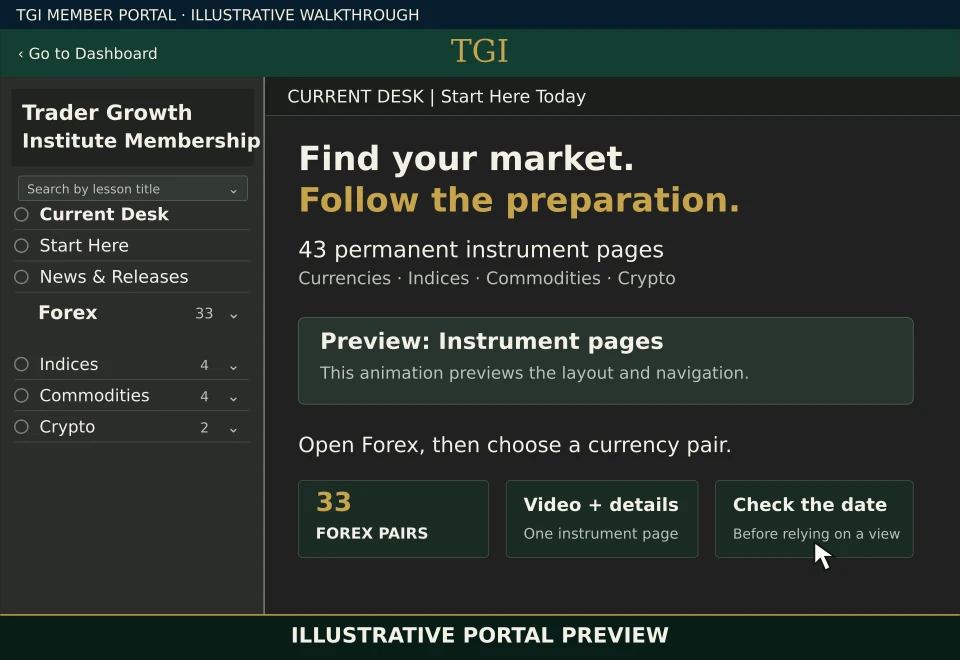
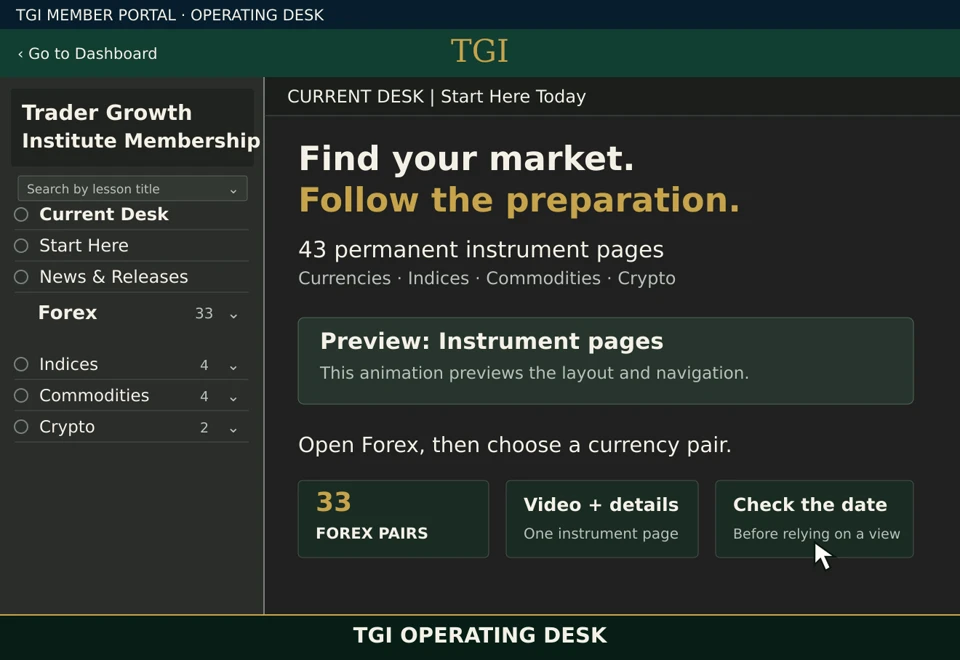
Add approved position tools to the Operating Desk GIF

diff --git a/desk/index.html b/desk/index.html
@@ -1,7 +1,7 @@
 <!doctype html>
-<html lang="en"><head><meta charset="utf-8"/><meta name="viewport" content="width=device-width, initial-scale=1"/><meta name="description" content="Join the TGI Operating Desk for weekly news, Daily Zones, structural levels, scenarios and market outlooks across 43 instruments. $99/month. Cancel anytime."/><meta name="theme-color" content="#080a0a"/><link rel="canonical" href="https://www.tradergrowth.com/desk/"/><meta property="og:title" content="TGI Operating Desk | Prepare with structure"/><meta property="og:description" content="Weekly news. Daily Zones. Structural levels. Market outlooks across 43 instruments. $99/month. Cancel anytime."/><meta property="og:image" content="https://www.tradergrowth.com/assets/tgi-forex-portal-walkthrough-poster.webp"/><title>TGI Operating Desk Membership | Trader Growth Institute</title><link rel="stylesheet" href="../styles.css"/><link rel="stylesheet" href="desk.css?v=20261011-newsletter"/><script defer src="../app.js"></script><script defer src="desk-gif.js?v=20261011-newsletter"></script><script defer src="desk-motion.js?v=20261011"></script></head><body class="desk-page"><a class="skip-link" href="#membership-main">Skip to membership</a><header class="site-header" data-header><a class="brand" href="/" aria-label="Trader Growth Institute home"><span class="brand-mark" aria-hidden="true">TGI</span><span class="brand-name">Trader Growth Institute</span></a><button class="nav-toggle" type="button" aria-expanded="false" aria-controls="site-nav"><span></span><span></span><span class="sr-only">Open navigation</span></button><nav class="site-nav" id="site-nav" aria-label="Primary navigation"><a href="/newsletter/">Intelligence</a><a href="/desk/" aria-current="page">Operating Desk</a><a href="/dzc/">Book</a><a href="/cot/">COT Dashboard</a></nav><a class="text-link header-cta" href="https://tradergrowthfx.thinkific.com/users/sign_in">Member sign in →</a></header>
+<html lang="en"><head><meta charset="utf-8"/><meta name="viewport" content="width=device-width, initial-scale=1"/><meta name="description" content="Join the TGI Operating Desk for weekly news, Daily Zones, structural levels, scenarios and market outlooks across 43 instruments. $99/month. Cancel anytime."/><meta name="theme-color" content="#080a0a"/><link rel="canonical" href="https://www.tradergrowth.com/desk/"/><meta property="og:title" content="TGI Operating Desk | Prepare with structure"/><meta property="og:description" content="Weekly news. Daily Zones. Structural levels. Market outlooks across 43 instruments. $99/month. Cancel anytime."/><meta property="og:image" content="https://www.tradergrowth.com/assets/tgi-forex-portal-walkthrough-poster.webp?v=20261011-positions"/><title>TGI Operating Desk Membership | Trader Growth Institute</title><link rel="stylesheet" href="../styles.css"/><link rel="stylesheet" href="desk.css?v=20261011-positions"/><script defer src="../app.js"></script><script defer src="desk-gif.js?v=20261011-positions"></script><script defer src="desk-motion.js?v=20261011"></script></head><body class="desk-page"><a class="skip-link" href="#membership-main">Skip to membership</a><header class="site-header" data-header><a class="brand" href="/" aria-label="Trader Growth Institute home"><span class="brand-mark" aria-hidden="true">TGI</span><span class="brand-name">Trader Growth Institute</span></a><button class="nav-toggle" type="button" aria-expanded="false" aria-controls="site-nav"><span></span><span></span><span class="sr-only">Open navigation</span></button><nav class="site-nav" id="site-nav" aria-label="Primary navigation"><a href="/newsletter/">Intelligence</a><a href="/desk/" aria-current="page">Operating Desk</a><a href="/dzc/">Book</a><a href="/cot/">COT Dashboard</a></nav><a class="text-link header-cta" href="https://tradergrowthfx.thinkific.com/users/sign_in">Member sign in →</a></header>
 <main id="membership-main"><section class="desk-hero"><div class="desk-hero-copy"><p class="eyebrow">TGI Operating Desk · Member access</p><h1>Follow the preparation.<br/><em>Build your own conviction.</em></h1><p class="desk-lead">Weekly news announcements, Daily Zones, structural levels, conditional scenarios, and market outlooks across 43 instruments—organized in one member portal.</p><div class="desk-offer"><b>$99</b><span>/ month<br/>One member desk. Ongoing access.</span></div><a class="button button-gold desk-join" href="https://tradergrowthfx.thinkific.com/enroll/3775153?price_id=4732368">Join the TGI Operating Desk <span>— $99/month</span></a><p class="desk-micro">Recurring monthly membership. Cancel anytime.<br/>Secure enrollment and member access through Thinkific.</p><a class="text-link" href="#inside">See what’s inside <span aria-hidden="true">↓</span></a></div><figure class="desk-preview">
-<div class="desk-gif-frame"><img id="desk-gif" data-desk-gif data-desk-gif-src="../assets/tgi-forex-portal-walkthrough.gif?v=20261011-newsletter" src="../assets/tgi-forex-portal-walkthrough-poster.webp?v=20261011-newsletter" alt="Illustrative TGI Forex portal walkthrough with EURUSD, USDJPY and GBPAUD video previews and details. Sample content; no live prices or current analysis." width="960" height="660" decoding="async"/><button class="desk-gif-toggle" data-desk-gif-control type="button" aria-label="Play animation" aria-controls="desk-gif" hidden></button></div>
+<div class="desk-gif-frame"><img id="desk-gif" data-desk-gif data-desk-gif-src="../assets/tgi-forex-portal-walkthrough.gif?v=20261011-positions" src="../assets/tgi-forex-portal-walkthrough-poster.webp?v=20261011-positions" alt="TGI Operating Desk portal walkthrough: EURUSD Short, USDJPY Long and GBPAUD Short position previews with entry, stop and target areas. No live prices or current market analysis." width="960" height="660" decoding="async"/><button class="desk-gif-toggle" data-desk-gif-control type="button" aria-label="Play animation" aria-controls="desk-gif" hidden></button></div>
 <p class="sr-only" data-desk-gif-status role="status" aria-live="polite"></p>
 </figure></section>
 <div class="desk-strip"><span>Weekly News</span><span>Daily Zones</span><span>Structural Levels</span><span>Market Outlooks</span></div>

diff --git a/tests/site.spec.js b/tests/site.spec.js
@@ -280,17 +280,17 @@ test("Operating Desk offer has visible checkout, accurate scope and clear cancel
     await expect(page.locator(".desk-lead")).toContainText("across 43 instruments");
     const gif = page.locator('[data-desk-gif]');
     await gif.scrollIntoViewIfNeeded();
-    await expect(gif).toHaveAttribute("src", "../assets/tgi-forex-portal-walkthrough.gif?v=20261011-newsletter");
+    await expect(gif).toHaveAttribute("src", "../assets/tgi-forex-portal-walkthrough.gif?v=20261011-positions");
     await expect.poll(() => gif.evaluate(image => image.complete && image.naturalWidth === 960 && image.naturalHeight === 660), { timeout: 15000 }).toBe(true);
     await expect(page.locator(".desk-preview")).toHaveCSS("border-top-width", "0px");
     await page.getByRole("button", { name: "Stop animation", exact: true }).click();
-    await expect(gif).toHaveAttribute("src", "../assets/tgi-forex-portal-walkthrough-poster.webp?v=20261011-newsletter");
+    await expect(gif).toHaveAttribute("src", "../assets/tgi-forex-portal-walkthrough-poster.webp?v=20261011-positions");
     await page.getByRole("button", { name: "Play animation", exact: true }).click();
-    await expect(gif).toHaveAttribute("src", "../assets/tgi-forex-portal-walkthrough.gif?v=20261011-newsletter");
+    await expect(gif).toHaveAttribute("src", "../assets/tgi-forex-portal-walkthrough.gif?v=20261011-positions");
     const animationControl = page.getByRole("button", { name: "Stop animation", exact: true });
     await animationControl.focus();
     await animationControl.press("Enter");
-    await expect(gif).toHaveAttribute("src", "../assets/tgi-forex-portal-walkthrough-poster.webp?v=20261011-newsletter");
+    await expect(gif).toHaveAttribute("src", "../assets/tgi-forex-portal-walkthrough-poster.webp?v=20261011-positions");
     await expect(page.locator(".desk-preview a, .desk-preview details, .desk-preview figcaption, .desk-preview video")).toHaveCount(0);
     await page.locator("[data-desk-gif-control]").evaluate(control => control.blur());
     await page.locator(".desk-preview").screenshot({ path: testInfo.outputPath(`desk-gif-${viewport.width}.png`) });
@@ -334,7 +334,7 @@ test("Operating Desk stays readable with reduced motion or JavaScript disabled",
       await expect(heading).toHaveCSS("transform", "none");
       await expect(page.locator(".desk-hero .desk-join")).toBeVisible();
       await expect(page.locator(".desk-offer")).toContainText("$99");
-      await expect(page.locator("[data-desk-gif]")).toHaveAttribute("src", "../assets/tgi-forex-portal-walkthrough-poster.webp?v=20261011-newsletter");
+      await expect(page.locator("[data-desk-gif]")).toHaveAttribute("src", "../assets/tgi-forex-portal-walkthrough-poster.webp?v=20261011-positions");
       const card = page.locator(".desk-grid article").first();
       await card.scrollIntoViewIfNeeded();
       await expect(card).toHaveCSS("opacity", "1");

diff --git a/assets/desk-tour-README.md b/assets/desk-tour-README.md
@@ -1,6 +1,8 @@
 # TGI Operating Desk landing page animation
 
-The landing page uses `tgi-forex-portal-walkthrough.gif`, the exact 18-second animation included in the October 11 newsletter draft: 960 × 660, 108 frames, infinite loop. Its matching still is `tgi-forex-portal-walkthrough-poster.webp`. These assets are tracked directly and are separate from the generated membership tour below.
+The landing page uses `tgi-forex-portal-walkthrough.gif`, the approved 18-second portal animation with EURUSD Short, USDJPY Long and GBPAUD Short position tools: 960 × 660, 108 frames, infinite loop. Its matching still is `tgi-forex-portal-walkthrough-poster.webp`. These assets are tracked directly and are separate from the generated membership tour below.
+
+The animation removes the earlier preview labels and draws entry, stop and target areas in each currency scene. Charts remain layout previews rather than current market assessments. Rebuild the GIF and poster on Linux with `node scripts/render-forex-portal.cjs`; this requires ffmpeg with its librsvg decoder and DejaVu fonts.
 
 The borderless GIF starts when it enters view and stops when hidden. Clicking, tapping, or using the keyboard button toggles playback. Reduced-motion and JavaScript-disabled visitors see the matching still poster. No download links, caption, video panel or transcript appear beneath it.
 
